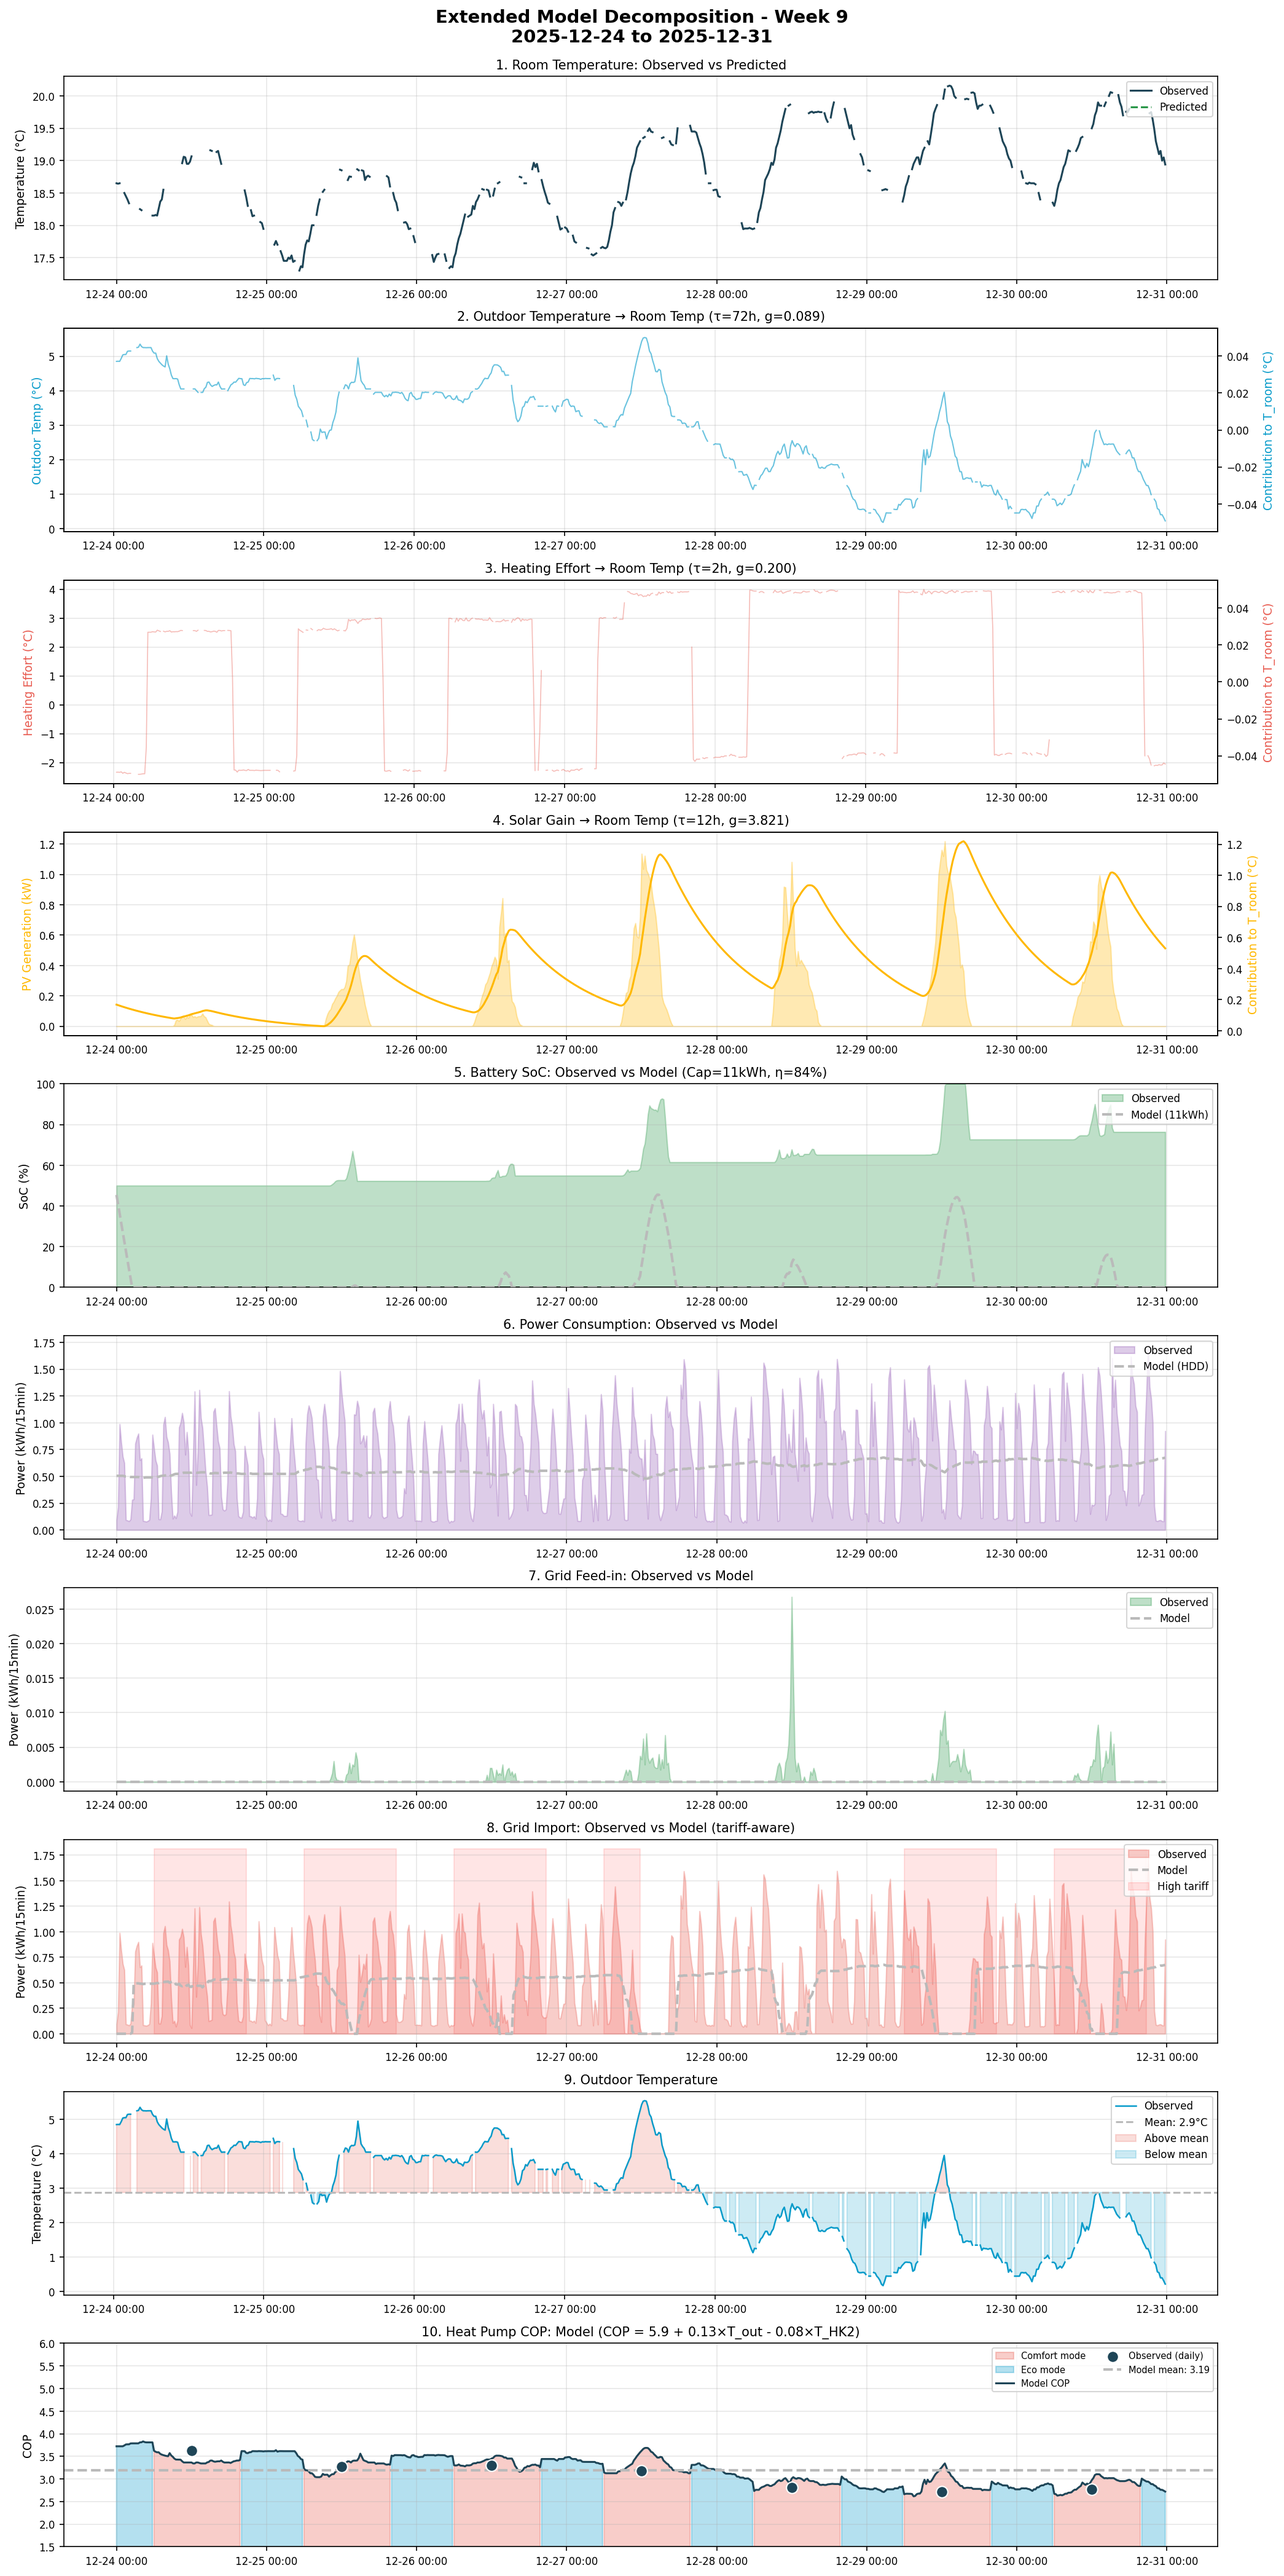
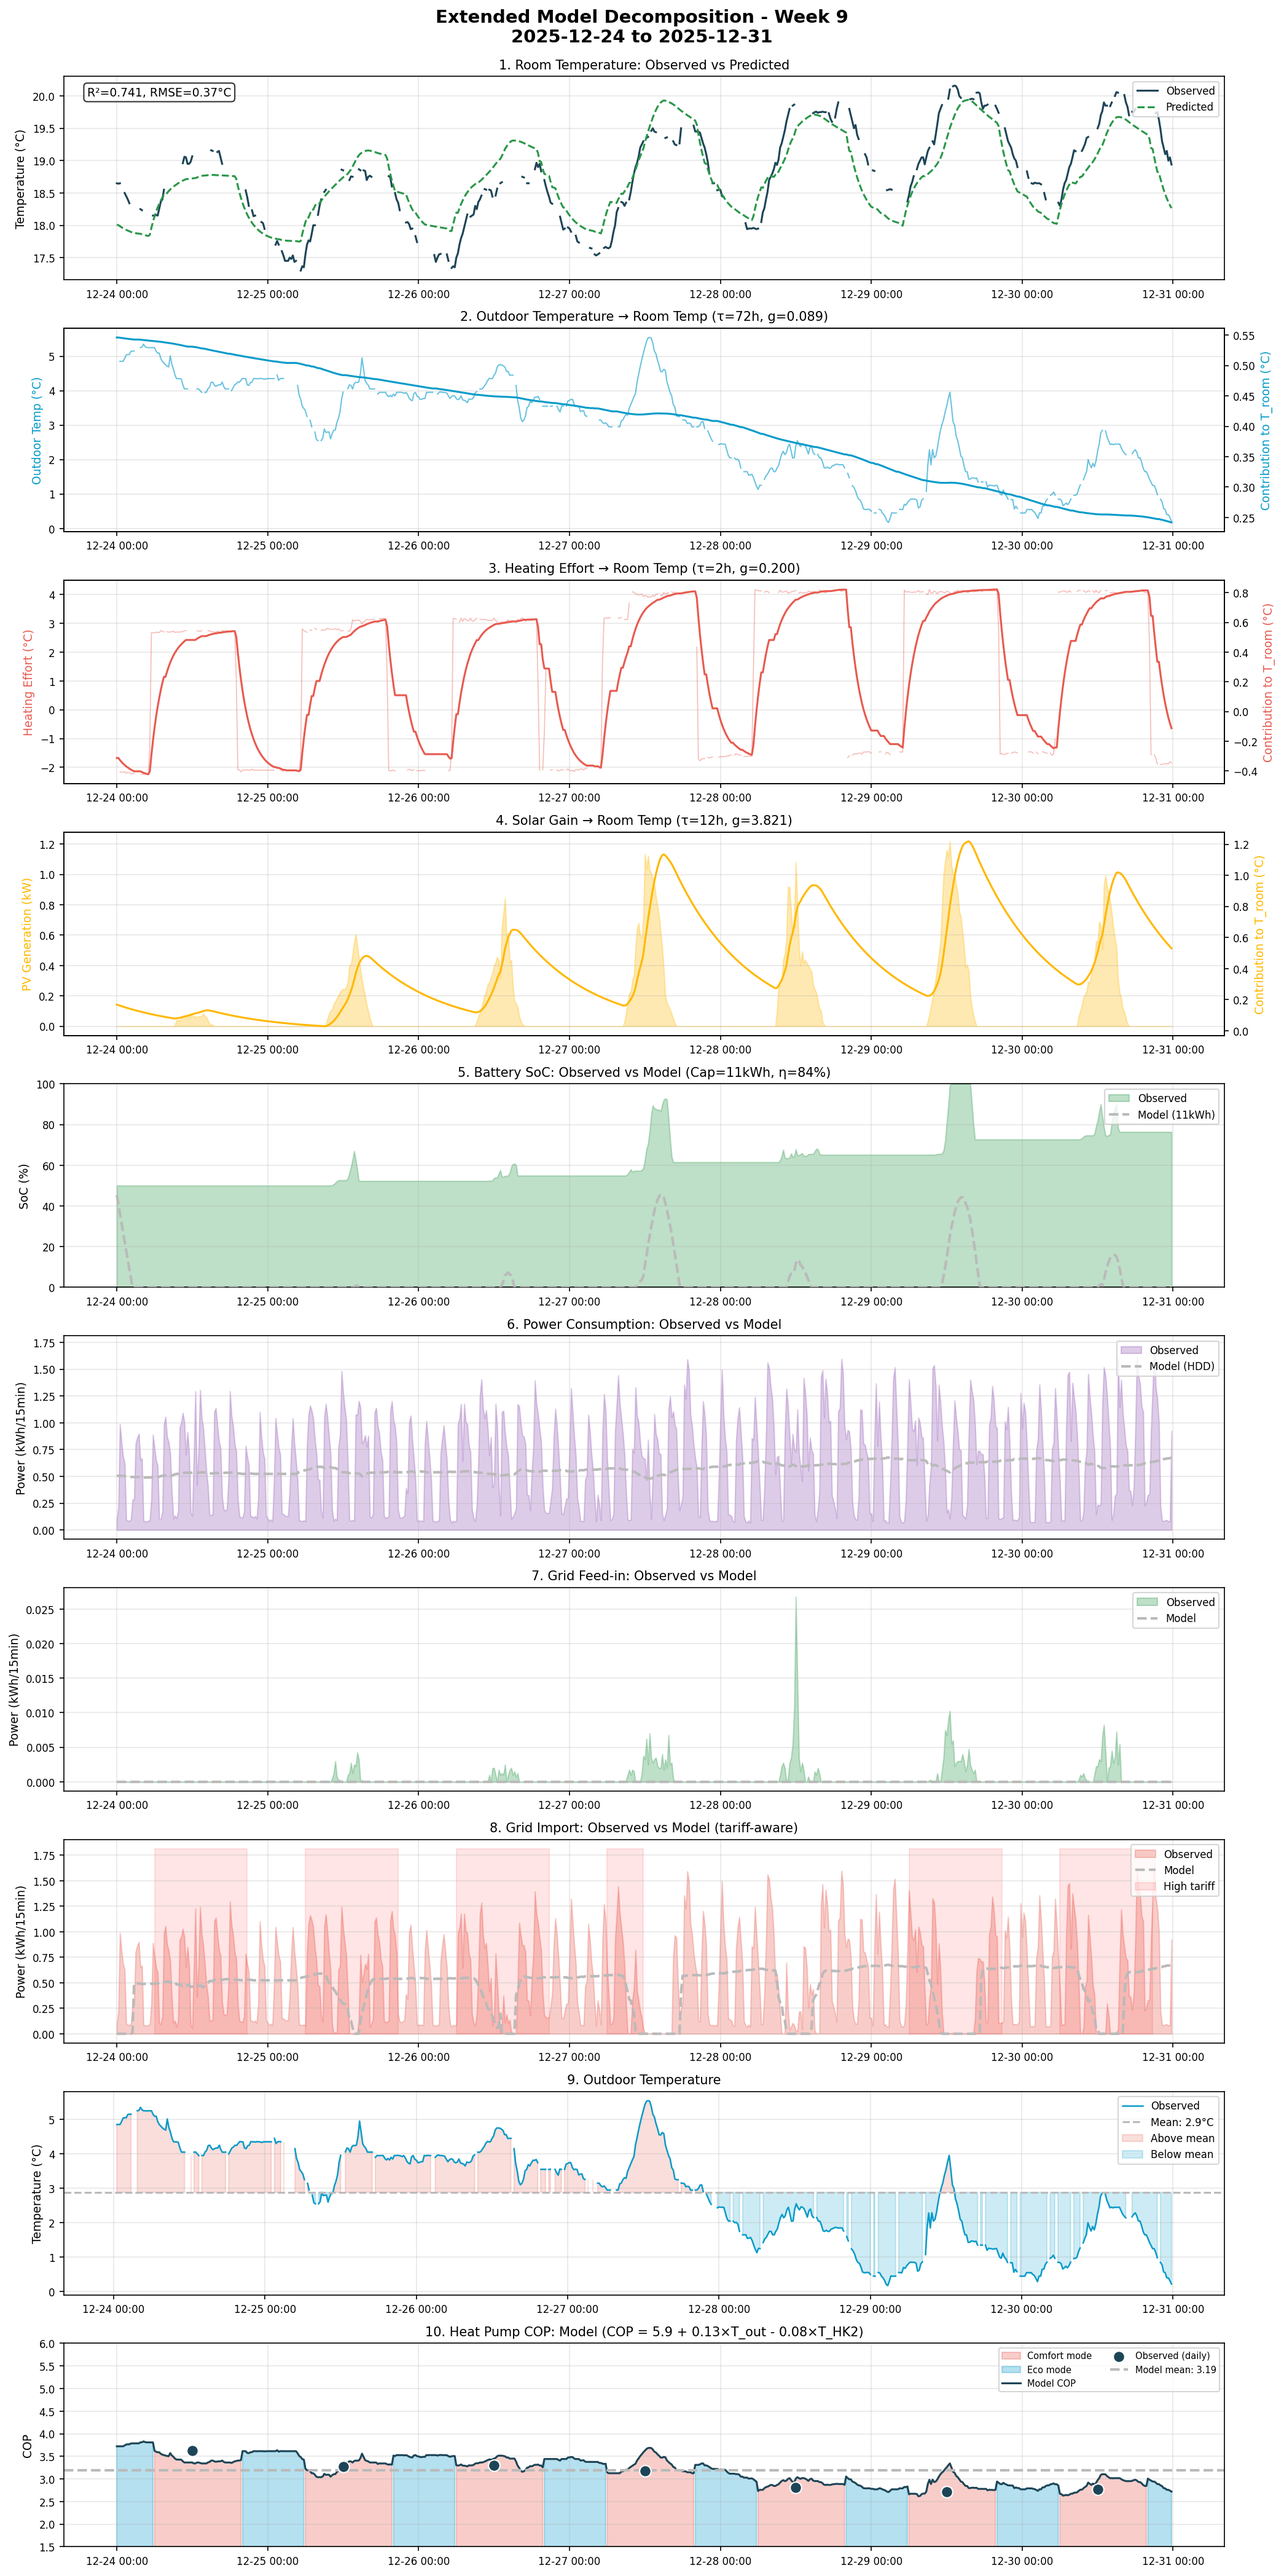
Fix R² calculation in extended decomposition to match weekly
- Filter data to valid overlap period before LPF computation
  (avoids NaN propagation from early empty data)
- Load heating curve params from same source as weekly decomposition
  (phase3/heating_curve.csv instead of hardcoded defaults)
- Return R² and RMSE from create_extended_decomposition for logging
- R² values now match weekly decomposition (weeks 2-11 exact match)

🤖 Generated with [Claude Code](https://claude.com/claude-code)

diff --git a/output/phase3/weekly_decomposition/weekly_decomposition_report.html b/output/phase3/weekly_decomposition/weekly_decomposition_report.html
@@ -123,7 +123,7 @@
 </head>
 <body>
     <h1>Weekly Model Decomposition Report</h1>
-    <p><em>Generated: 2026-01-18 11:23</em></p>
+    <p><em>Generated: 2026-01-18 11:33</em></p>
 
     <div class="summary-box">
         <h3 style="margin-top: 0; border: none; padding-left: 0;">Summary</h3>

diff --git a/src/phase3/06_extended_decomposition.py b/src/phase3/06_extended_decomposition.py
@@ -154,7 +154,17 @@ def load_thermal_model_params():
 
 
 def load_heating_curve_params():
-    """Load heating curve parameters."""
+    """Load heating curve parameters from Phase 3 output (same as weekly decomposition)."""
+    # Use the same source as 05_weekly_decomposition.py
+    hc_path = OUTPUT_DIR / 'heating_curve.csv'
+    if hc_path.exists():
+        import pandas as pd
+        hc = pd.read_csv(hc_path).iloc[0]
+        return {
+            'intercept': hc['baseline'],
+            'slope': hc['slope'],
+        }
+    # Fallback to Phase 2 JSON
     params_file = OUTPUT_DIR.parent / 'phase2' / 'heating_curve_params.json'
     if params_file.exists():
         with open(params_file) as f:
@@ -534,22 +544,31 @@ def create_extended_decomposition(df, energy_df, heating_df, params, hc_params,
     heating_mask = (heating_df.index >= start_date) & (heating_df.index < end_date)
     heating_week = heating_df[heating_mask].copy()
 
-    # Compute model terms on FULL dataset for proper LPF initialization, then extract week
-    terms_full = compute_model_terms(df, params, hc_params)
+    # Filter df to overlap period with valid heating data before LPF computation
+    # This ensures LPF doesn't start with NaN values
+    outdoor_col = 'stiebel_eltron_isg_outdoor_temperature'
+    first_valid_idx = df[outdoor_col].first_valid_index()
+    if first_valid_idx is not None:
+        df_valid = df.loc[first_valid_idx:].copy()
+    else:
+        df_valid = df
 
-    # Extract week portion from full terms
-    week_idx = df.index.get_indexer(df_week.index)
+    # Compute model terms on valid data for proper LPF initialization
+    terms_full = compute_model_terms(df_valid, params, hc_params)
+
+    # Extract week portion from full terms using boolean mask
+    full_mask = (df_valid.index >= start_date) & (df_valid.index < end_date)
     terms = {
-        't_out': terms_full['t_out'][week_idx],
-        'effort': terms_full['effort'][week_idx],
-        'pv': terms_full['pv'][week_idx],
-        'lpf_out': terms_full['lpf_out'][week_idx],
-        'lpf_eff': terms_full['lpf_eff'][week_idx],
-        'lpf_pv': terms_full['lpf_pv'][week_idx],
-        'contrib_out': terms_full['contrib_out'][week_idx],
-        'contrib_eff': terms_full['contrib_eff'][week_idx],
-        'contrib_pv': terms_full['contrib_pv'][week_idx],
-        't_pred': terms_full['t_pred'][week_idx],
+        't_out': terms_full['t_out'][full_mask],
+        'effort': terms_full['effort'][full_mask],
+        'pv': terms_full['pv'][full_mask],
+        'lpf_out': terms_full['lpf_out'][full_mask],
+        'lpf_eff': terms_full['lpf_eff'][full_mask],
+        'lpf_pv': terms_full['lpf_pv'][full_mask],
+        'contrib_out': terms_full['contrib_out'][full_mask],
+        'contrib_eff': terms_full['contrib_eff'][full_mask],
+        'contrib_pv': terms_full['contrib_pv'][full_mask],
+        't_pred': terms_full['t_pred'][full_mask],
     }
 
     # Get actual room temperature
@@ -572,12 +591,14 @@ def create_extended_decomposition(df, energy_df, heating_df, params, hc_params,
     ax.grid(True, alpha=0.3)
 
     # Calculate R² for this period
-    valid = ~(np.isnan(t_actual) | np.isnan(terms['t_pred']))
+    r2, rmse = None, None
+    t_pred_arr = np.array(terms['t_pred'])
+    valid = ~(np.isnan(t_actual) | np.isnan(t_pred_arr))
     if valid.sum() > 10:
-        ss_res = np.sum((t_actual[valid] - terms['t_pred'][valid])**2)
+        ss_res = np.sum((t_actual[valid] - t_pred_arr[valid])**2)
         ss_tot = np.sum((t_actual[valid] - np.mean(t_actual[valid]))**2)
         r2 = 1 - ss_res / ss_tot if ss_tot > 0 else 0
-        rmse = np.sqrt(np.mean((t_actual[valid] - terms['t_pred'][valid])**2))
+        rmse = np.sqrt(np.mean((t_actual[valid] - t_pred_arr[valid])**2))
         ax.text(0.02, 0.95, f'R²={r2:.3f}, RMSE={rmse:.2f}°C',
                 transform=ax.transAxes, va='top', fontsize=9,
                 bbox=dict(boxstyle='round', facecolor='white', alpha=0.8))
@@ -798,7 +819,7 @@ def create_extended_decomposition(df, energy_df, heating_df, params, hc_params,
     fig.savefig(output_path, dpi=150, bbox_inches='tight', facecolor='white')
     plt.close()
 
-    return True
+    return {'success': True, 'r2': r2, 'rmse': rmse}
 
 
 def main():
@@ -892,15 +913,17 @@ def main():
         week_num = i + 1
         output_path = WEEKLY_DIR / f'week_{week_num:02d}_extended.png'
 
-        success = create_extended_decomposition(
+        result = create_extended_decomposition(
             integrated, energy, heating, params, hc_params,
             start, end, output_path,
             title_suffix=f' - Week {week_num}\n{start.strftime("%Y-%m-%d")} to {end.strftime("%Y-%m-%d")}',
             energy_model=energy_model
         )
 
-        if success:
-            print(f"  Week {week_num}: {start.strftime('%Y-%m-%d')} - Saved")
+        if result and result.get('success'):
+            r2_str = f"R²={result['r2']:.3f}" if result.get('r2') is not None else "R²=N/A"
+            rmse_str = f"RMSE={result['rmse']:.2f}°C" if result.get('rmse') is not None else ""
+            print(f"  Week {week_num}: {start.strftime('%Y-%m-%d')} - {r2_str}, {rmse_str}")
         else:
             print(f"  Week {week_num}: {start.strftime('%Y-%m-%d')} - Skipped (insufficient data)")
 
